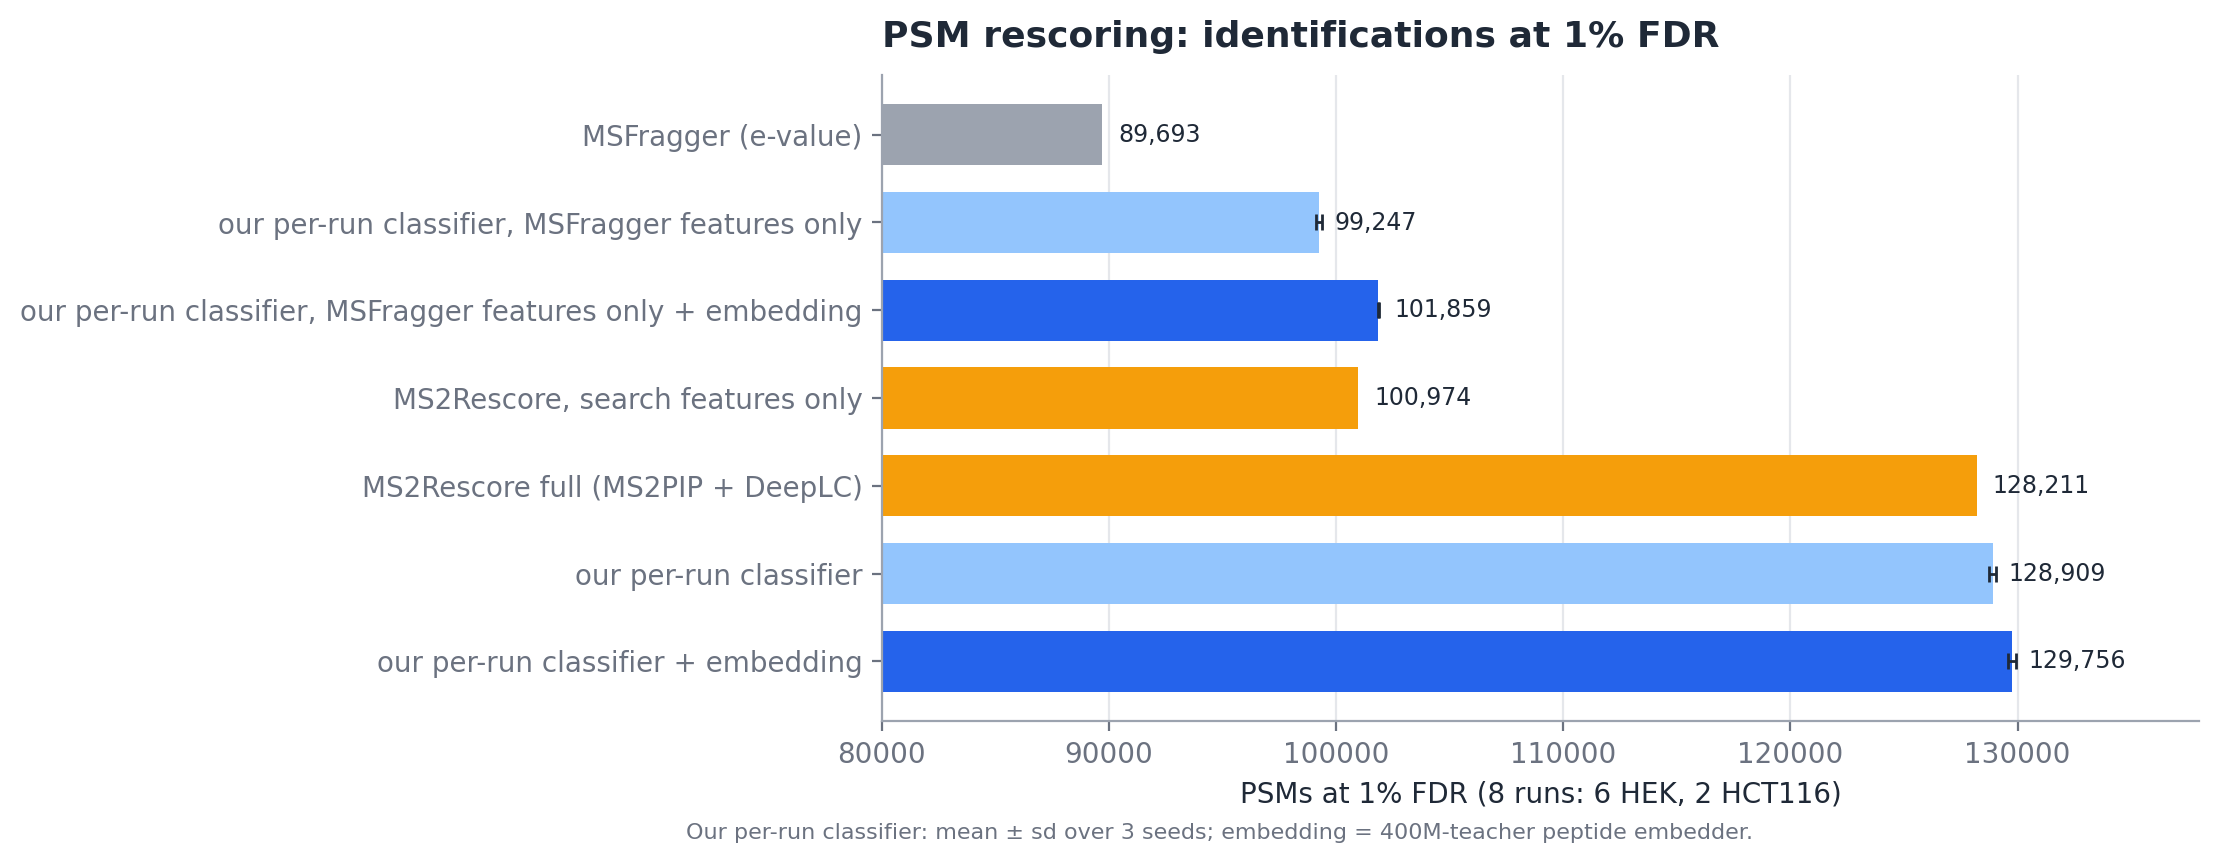
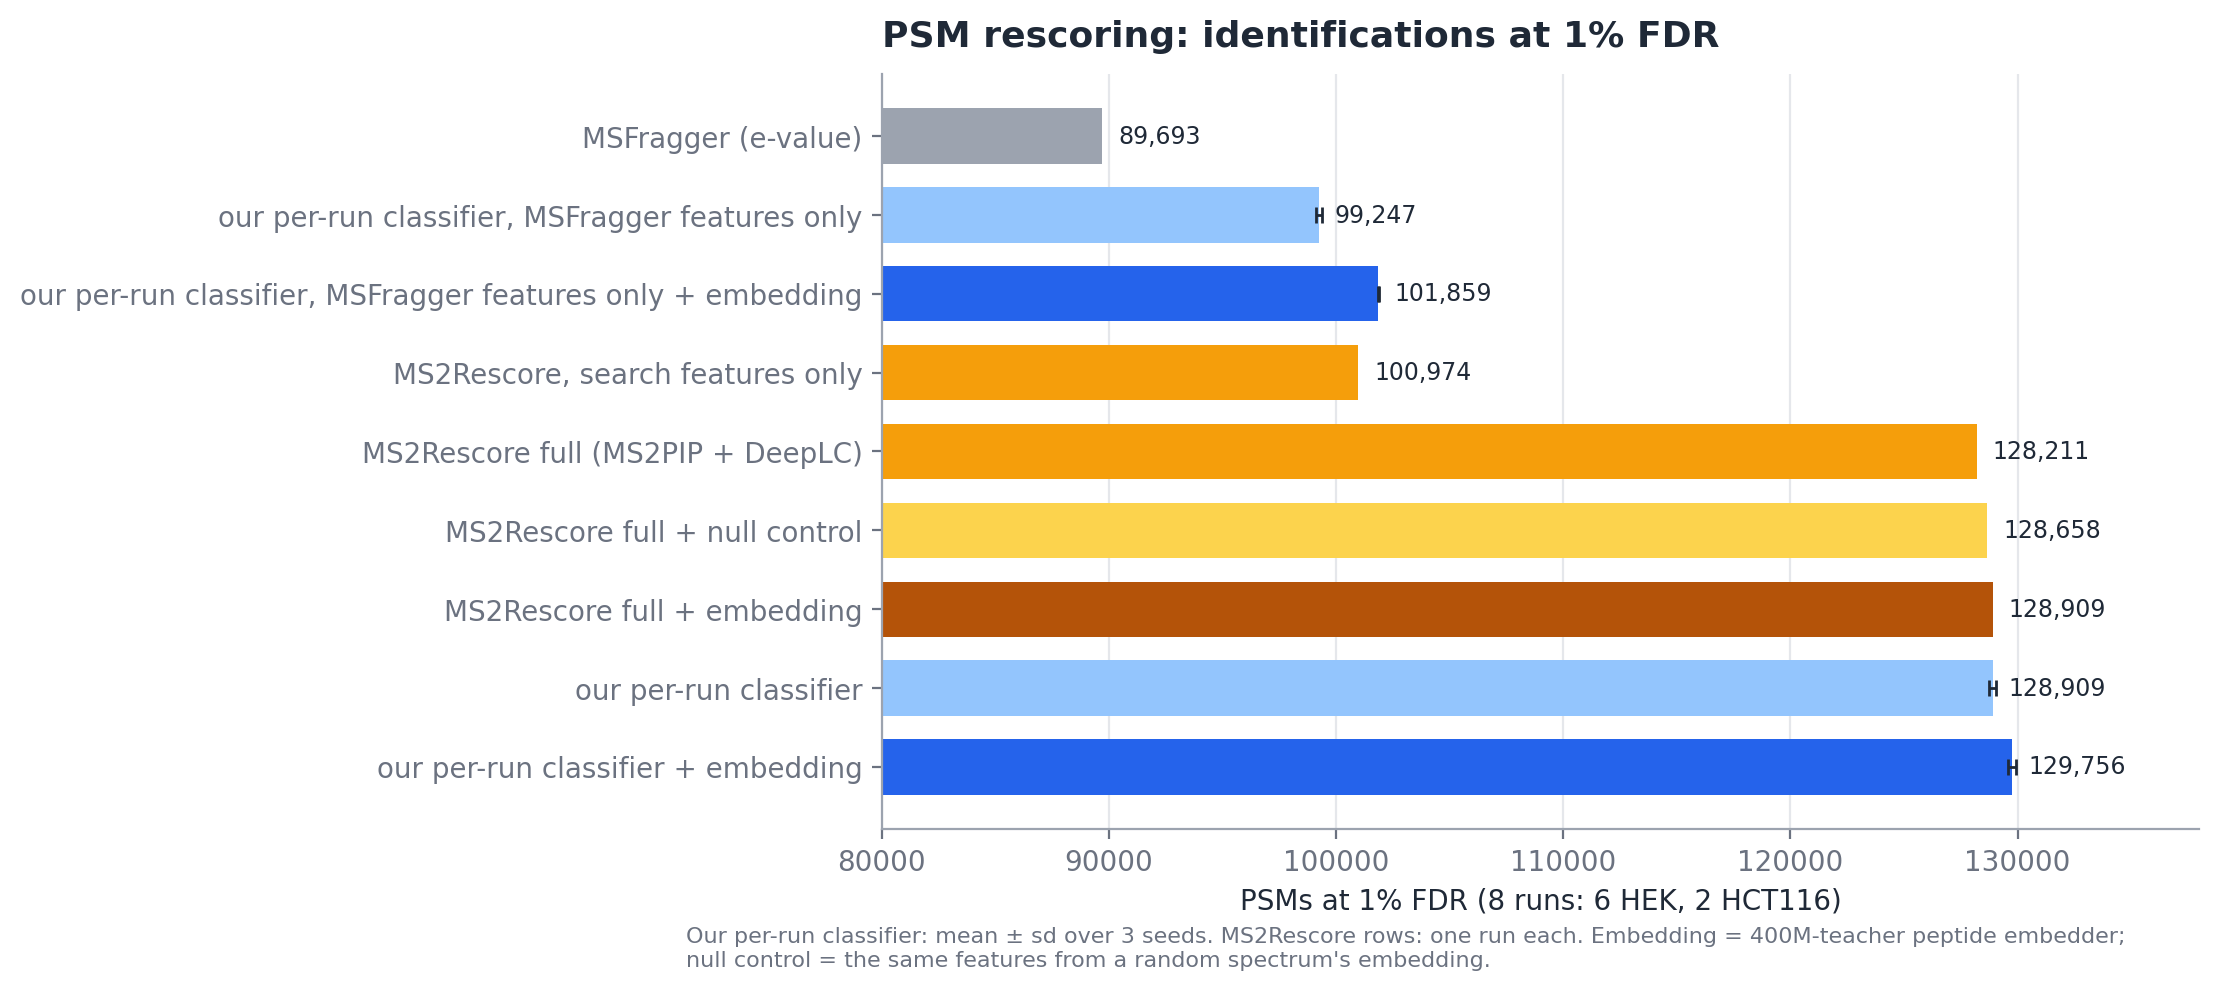
R_benchmark: add MS2Rescore full + embedding / + null control (re-scored from the emb8_a2 MS2Rescore outputs, identical to the recorded 128,909 / 128,658)
Claude-Session: https://claude.ai/code/session_01ATgkXx1oRRqvzB3G8wYeta

diff --git a/sweeps/package_rerank.py b/sweeps/package_rerank.py
@@ -121,6 +121,10 @@ def benchmark_rows():
     for k, lab in (("ms2rescore:searchonly", "MS2Rescore, search features only"),
                    ("ms2rescore:full", "MS2Rescore full (MS2PIP + DeepLC)")):
         rows.append(dict(method=lab, seed="", psms=ms2r[k]["all"]["pooled"], source=f"results_ms2rescore.json:{k}"))
+    emb = json.loads((REPO / "baselines_wip" / "results_ms2rescore_emb8_a2.json").read_text())
+    for k, lab in (("ms2rescore:full+null control", "MS2Rescore full + null control"),
+                   ("ms2rescore:full+embedding(400M teacher, cosws)", "MS2Rescore full + embedding")):
+        rows.append(dict(method=lab, seed="", psms=emb[k]["all"]["pooled"], source=f"results_ms2rescore_emb8_a2.json:{k}"))
     for seed, src in enumerate(EMB["A2"][1]):
         p = perrun(src)
         for feat, lab in (("ms", "our per-run classifier, MSFragger features only"), ("ms+embws", "our per-run classifier, MSFragger features only + embedding"),
@@ -132,12 +136,15 @@ def benchmark_rows():
 
 def fig_benchmark(rows):
     order = ["MSFragger (e-value)", "our per-run classifier, MSFragger features only", "our per-run classifier, MSFragger features only + embedding",
-             "MS2Rescore, search features only", "MS2Rescore full (MS2PIP + DeepLC)", "our per-run classifier",
+             "MS2Rescore, search features only", "MS2Rescore full (MS2PIP + DeepLC)", "MS2Rescore full + null control",
+             "MS2Rescore full + embedding", "our per-run classifier",
              "our per-run classifier + embedding"]
-    col = lambda m: "#2563eb" if "+ embedding" in m else ("#93c5fd" if m.startswith("our ") else
-                                                          ("#f59e0b" if "MS2Rescore" in m else "#9ca3af"))
+    col = lambda m: ("#b45309" if m.startswith("MS2Rescore") and "+ embedding" in m else
+                     "#fcd34d" if "null control" in m else
+                     "#2563eb" if "+ embedding" in m else "#93c5fd" if m.startswith("our ") else
+                     "#f59e0b" if "MS2Rescore" in m else "#9ca3af")
     with plt.rc_context(STYLE):
-        fig, ax = plt.subplots(figsize=(8.5, 4.2))
+        fig, ax = plt.subplots(figsize=(8.5, 4.9))
         ax.xaxis.grid(True, color=GRIDC, lw=0.8); ax.set_axisbelow(True)
         for i, m in enumerate(order):
             v = np.array([r["psms"] for r in rows if r["method"] == m], dtype=float)
@@ -147,7 +154,8 @@ def fig_benchmark(rows):
         ax.set_yticks(range(len(order))); ax.set_yticklabels(order); ax.invert_yaxis()
         ax.set_xlim(80000, 138000); ax.set_xlabel("PSMs at 1% FDR (8 runs: 6 HEK, 2 HCT116)")
         ax.set_title("PSM rescoring: identifications at 1% FDR", loc="left", fontsize=13, fontweight="bold", pad=10)
-        fig.text(0.01, -0.03, "Our per-run classifier: mean ± sd over 3 seeds; embedding = 400M-teacher peptide embedder.",
+        fig.text(0.01, -0.03, "Our per-run classifier: mean ± sd over 3 seeds. MS2Rescore rows: one run each. "
+                 "Embedding = 400M-teacher peptide embedder;\nnull control = the same features from a random spectrum's embedding.",
                  fontsize=8, color=MUTED)
         fig.savefig(FIG / "R_benchmark.png"); plt.close(fig)
 

diff --git a/paper/experiments/reranking/plot_reranking.py b/paper/experiments/reranking/plot_reranking.py
@@ -66,10 +66,12 @@ def benchmark():
     order = [order[0]] + [m for m in order if "MSFragger features only" in m] + \
             [m for m in order if m.startswith("MS2Rescore")] + \
             [m for m in order if m.startswith("our") and "MSFragger features only" not in m]
-    col = lambda m: "#2563eb" if "+ embedding" in m else ("#93c5fd" if m.startswith("our ") else
-                                                          ("#f59e0b" if "MS2Rescore" in m else "#9ca3af"))
+    col = lambda m: ("#b45309" if m.startswith("MS2Rescore") and "+ embedding" in m else
+                     "#fcd34d" if "null control" in m else
+                     "#2563eb" if "+ embedding" in m else "#93c5fd" if m.startswith("our ") else
+                     "#f59e0b" if "MS2Rescore" in m else "#9ca3af")
     with plt.rc_context(STYLE):
-        fig, ax = plt.subplots(figsize=(8.5, 4.2))
+        fig, ax = plt.subplots(figsize=(8.5, 4.9))
         ax.xaxis.grid(True, color=GRIDC, lw=0.8); ax.set_axisbelow(True)
         for i, m in enumerate(order):
             v = np.array([float(r["psms"]) for r in rows if r["method"] == m])
@@ -79,7 +81,8 @@ def benchmark():
         ax.set_yticks(range(len(order))); ax.set_yticklabels(order); ax.invert_yaxis()
         ax.set_xlim(80000, 138000); ax.set_xlabel("PSMs at 1% FDR (8 runs: 6 HEK, 2 HCT116)")
         ax.set_title("PSM rescoring: identifications at 1% FDR", loc="left", fontsize=13, fontweight="bold", pad=10)
-        fig.text(0.01, -0.03, "Our per-run classifier: mean ± sd over 3 seeds; embedding = 400M-teacher peptide embedder.",
+        fig.text(0.01, -0.03, "Our per-run classifier: mean ± sd over 3 seeds. MS2Rescore rows: one run each. "
+                 "Embedding = 400M-teacher peptide embedder;\nnull control = the same features from a random spectrum's embedding.",
                  fontsize=8, color=MUTED)
         fig.savefig(HERE / "R_benchmark.png"); plt.close(fig)
 

diff --git a/paper/experiments/reranking/README.md b/paper/experiments/reranking/README.md
@@ -10,7 +10,7 @@ spectrum/peptide embedding similarity as a feature lets the classifier identify 
 | file | content |
 |---|---|
 | `R_embedding_gain.png`, `R_embedding_gain.csv` | % more PSMs at 1% FDR from adding the embedding features vs adding a null control |
-| `R_benchmark.png`, `R_benchmark.csv` | PSMs at 1% FDR for MSFragger, MS2Rescore and our per-run classifier, with and without the embedding |
+| `R_benchmark.png`, `R_benchmark.csv` | PSMs at 1% FDR for MSFragger, MS2Rescore (also with the embedding and with the null control added) and our per-run classifier, with and without the embedding |
 | `plot_reranking.py` | regenerates both figures from the CSVs (`python plot_reranking.py`; matplotlib + numpy) |
 
 `R_embedding_gain.csv`: one row per (dataset, embedding, feature set, arm, seed) with the PSMs of the
@@ -78,9 +78,12 @@ features.
   and 99,154-99,405 (MSFragger features only); gains are compared within each seed.
 - Oktoberfest was run on the 6 HEK runs only and is not comparable with these 8-run numbers, so it is
   not shown.
-- Adding the embedding to MS2Rescore full (one seed) gave +698 PSMs against +447 for the null control
-  (net +251, +0.2%); on the two HCT116 runs the null gained as much as the embedding, so that
-  comparison is within MS2Rescore's run-to-run noise and is not shown.
+- MS2Rescore full with the embedding features added (one run): 128,909 PSMs, against 128,658 with the
+  null control, a net +251 (+0.2%). On the 6 HEK runs the gain is clean (+257 vs +6 for the null); on
+  the 2 HCT116 runs the null gained more than the embedding (+452 vs +343), i.e. within MS2Rescore's
+  sensitivity to added features on those small runs. Both rows are shown in `R_benchmark.png`; the
+  18-run HCT116 MS2Rescore comparison is pending. (MS2Rescore full + embedding and our per-run
+  classifier both read 128,909: the first is one run, the second the mean of 129,041 / 128,751 / 128,934.)
 
 Provenance: msdelta repository, `sweeps/package_rerank.py` (from `results/rerank/psm/` and
-`baselines_wip/results_ms2rescore.json`).
+`baselines_wip/results_ms2rescore.json`, `baselines_wip/results_ms2rescore_emb8_a2.json`).
